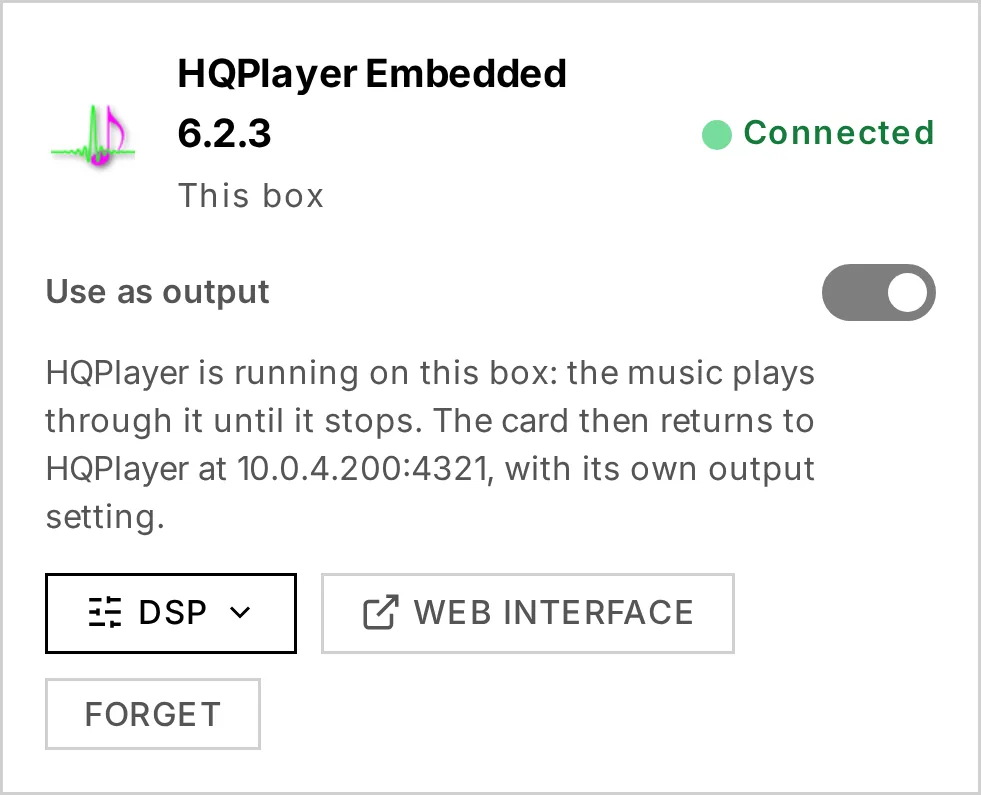
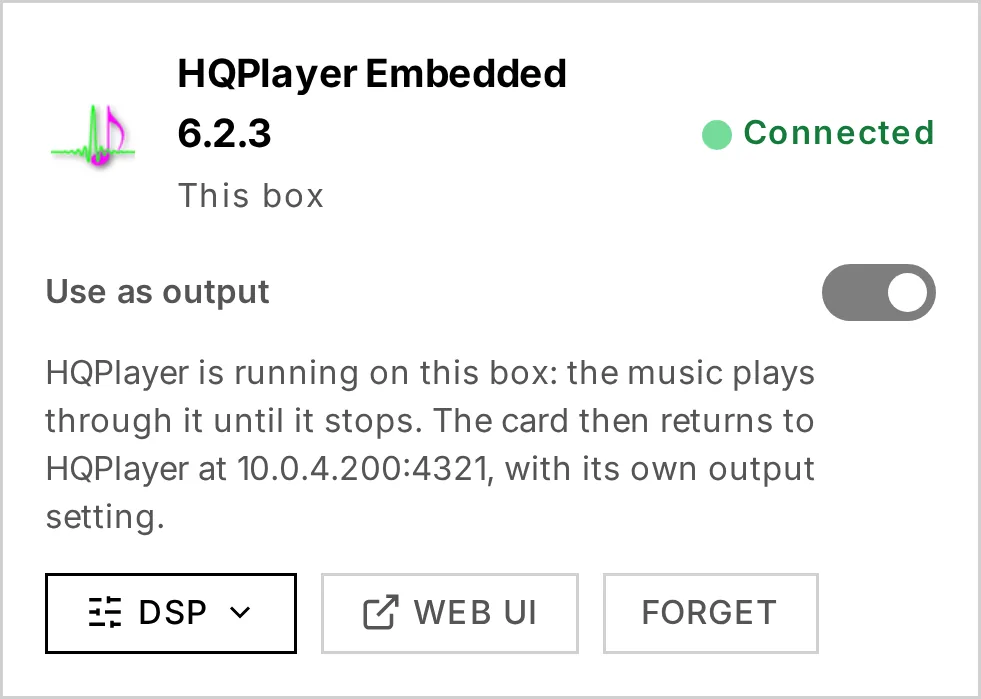
docs: call the HQPlayer card's settings page button WEB UI in the manual
The button that opens HQPlayer Embedded's own web page is labelled Web UI from
the next version on. The Outputs & engines chapter and the troubleshooting entry
on the 30-minute limit now name it WEB UI, the card's figure is retaken with the
three buttons on one row at phone width, and its alternative text follows.

diff --git a/docs/manual/06-outputs-engines.html b/docs/manual/06-outputs-engines.html
@@ -322,7 +322,7 @@ HQPlayer Embedded is running, it restarts to take the new output, so whatever it
 stops for a moment.</p>
 <p><strong>Its web page.</strong> HQPlayer's own settings, its filters, modulators and DSD rate among them,
 are set on its web page. The quickest way there: open the <strong>Library</strong>, go to <strong>Sources</strong>, and
-on the HQPlayer card click <strong>WEB INTERFACE</strong> — it opens in a new tab. The button is there
+on the HQPlayer card click <strong>WEB UI</strong> — it opens in a new tab. The button is there
 whenever HQPlayer Embedded is the one running on your box, and it stays available even when
 the card says it is offline, which is when you are most likely to need it. Otherwise, type
 <code>http://&lt;your box&gt;:8088</code> in your browser — your box's address followed by <code>:8088</code>.</p>
@@ -363,7 +363,7 @@ on and locked for as long as it runs. An HQPlayer you had chosen on your network
 when HQPlayer Embedded stops, the card returns to it, with its own <strong>Use as output</strong>
 setting. The formats HQPlayer cannot decode are converted here too — see
 <a href="#what-can-and-cannot-go-through-hqplayer">What can and cannot go through HQPlayer</a>.</p>
-<img loading="lazy" src="images/ios-hqplayer-embedded-card.webp" alt="The HQPlayer card while HQPlayer Embedded runs: This box, Connected, Use as output on and locked, the HQPlayer chosen before kept for when it stops, and the Web interface and Forget buttons" width="360">
+<img loading="lazy" src="images/ios-hqplayer-embedded-card.webp" alt="The HQPlayer card while HQPlayer Embedded runs: This box, Connected, Use as output on and locked, the HQPlayer chosen before kept for when it stops, and the Web UI and Forget buttons" width="360">
 <p><strong>If something did not go through.</strong> When HQPlayer Embedded is installed but a step after
 that could not be done, the result says <strong>Install Incomplete</strong> and what is left to do. If
 its password could not be set, the card shows <strong>Set web password</strong>: click it to set one.

diff --git a/docs/manual/09-troubleshooting.html b/docs/manual/09-troubleshooting.html
@@ -503,7 +503,7 @@ until you do.</li>
 again.</p>
 <p>A licence from Signalyst removes the limit. It is bought from Signalyst directly, and
 entered on HQPlayer Embedded's own web page — reachable from the HQPlayer card in
-<strong>Library → Sources</strong>, with <strong>WEB INTERFACE</strong>. That page keeps answering while the half
+<strong>Library → Sources</strong>, with <strong>WEB UI</strong>. That page keeps answering while the half
 hour is up, so you can go there without restarting anything first.</p>
 <h2 id="locked-out-of-hqplayer-embeddeds-web-page">Locked out of HQPlayer Embedded's web page</h2>
 <p>Audiogravi<sup>ty</sup> does not keep the password shown when HQPlayer Embedded was

diff --git a/docs/manual/06-outputs-engines.md b/docs/manual/06-outputs-engines.md
@@ -280,7 +280,7 @@ stops for a moment.
 
 **Its web page.** HQPlayer's own settings, its filters, modulators and DSD rate among them,
 are set on its web page. The quickest way there: open the **Library**, go to **Sources**, and
-on the HQPlayer card click **WEB INTERFACE** — it opens in a new tab. The button is there
+on the HQPlayer card click **WEB UI** — it opens in a new tab. The button is there
 whenever HQPlayer Embedded is the one running on your box, and it stays available even when
 the card says it is offline, which is when you are most likely to need it. Otherwise, type
 `http://<your box>:8088` in your browser — your box's address followed by `:8088`.
@@ -326,7 +326,7 @@ when HQPlayer Embedded stops, the card returns to it, with its own **Use as outp
 setting. The formats HQPlayer cannot decode are converted here too — see
 [What can and cannot go through HQPlayer](#what-can-and-cannot-go-through-hqplayer).
 
-<img src="images/ios-hqplayer-embedded-card.webp" alt="The HQPlayer card while HQPlayer Embedded runs: This box, Connected, Use as output on and locked, the HQPlayer chosen before kept for when it stops, and the Web interface and Forget buttons" width="360">
+<img src="images/ios-hqplayer-embedded-card.webp" alt="The HQPlayer card while HQPlayer Embedded runs: This box, Connected, Use as output on and locked, the HQPlayer chosen before kept for when it stops, and the Web UI and Forget buttons" width="360">
 
 **If something did not go through.** When HQPlayer Embedded is installed but a step after
 that could not be done, the result says **Install Incomplete** and what is left to do. If

diff --git a/docs/manual/09-troubleshooting.md b/docs/manual/09-troubleshooting.md
@@ -517,7 +517,7 @@ again.
 
 A licence from Signalyst removes the limit. It is bought from Signalyst directly, and
 entered on HQPlayer Embedded's own web page — reachable from the HQPlayer card in
-**Library → Sources**, with **WEB INTERFACE**. That page keeps answering while the half
+**Library → Sources**, with **WEB UI**. That page keeps answering while the half
 hour is up, so you can go there without restarting anything first.
 
 ## Locked out of HQPlayer Embedded's web page
